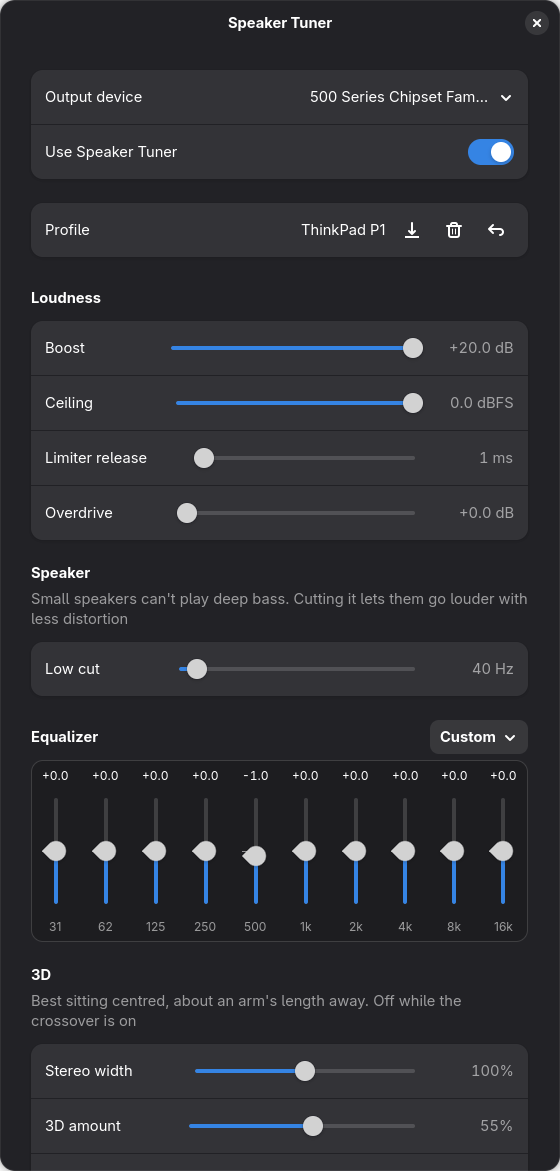
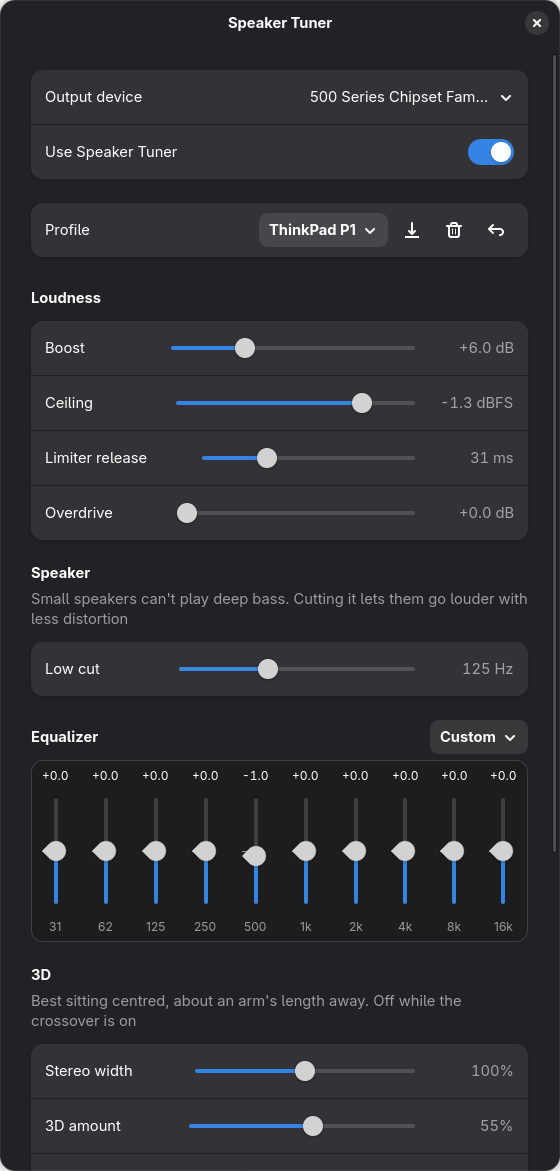
Profile dropdown with auto-save into the selected profile

diff --git a/speaker_tuner.py b/speaker_tuner.py
@@ -361,11 +361,13 @@ class Window(Adw.ApplicationWindow):
         self.default_row.connect("notify::active", self.on_default_toggled)
         g.add(self.default_row)
 
-        # Profiles: one row, actions as icon buttons
+        # Profiles: dropdown plus icon buttons on one row. Edits auto-save into the selected profile.
         g = Adw.PreferencesGroup()
         page.add(g)
-        self.profile_row = Adw.ComboRow(title="Profile")
-        self.profile_row.connect("notify::selected", self.on_profile_selected)
+        self.profile_row = Adw.ActionRow(title="Profile")
+        self.profile_dd = Gtk.DropDown(valign=Gtk.Align.CENTER)
+        self.profile_dd.connect("notify::selected", self.on_profile_selected)
+        self.profile_row.add_suffix(self.profile_dd)
         for icon, tip, cb in (("document-save-symbolic", "Save as…", self.on_save_profile),
                               ("user-trash-symbolic", "Delete profile", self.on_delete_profile),
                               ("edit-undo-symbolic", "Reset to defaults", self.on_reset)):
@@ -514,12 +516,13 @@ class Window(Adw.ApplicationWindow):
         was, self.building = self.building, True
         self.profiles = load_profiles()
         self.profile_names = sorted(self.profiles, key=str.casefold)
-        self.profile_row.set_model(Gtk.StringList.new(self.profile_names or ["No saved profiles"]))
-        self.profile_row.set_sensitive(bool(self.profile_names))
-        self.delete_btn.set_sensitive(bool(self.profile_names))
+        # Index 0 is "None": settings not tied to a profile.
+        self.profile_dd.set_model(Gtk.StringList.new(["None"] + self.profile_names))
         current = select if select is not None else self.s.get("profile")
-        self.profile_row.set_selected(self.profile_names.index(current) if current in self.profile_names
-                                      else Gtk.INVALID_LIST_POSITION)
+        if current not in self.profile_names:
+            self.s.pop("profile", None)
+        self.profile_dd.set_selected(self.profile_names.index(current) + 1 if current in self.profile_names else 0)
+        self.delete_btn.set_sensitive(current in self.profile_names)
         self.building = was
 
     def pick_initial_sink(self):
@@ -570,18 +573,25 @@ class Window(Adw.ApplicationWindow):
 
     # -- profiles
 
-    def on_profile_selected(self, row, _):
-        idx = row.get_selected()
-        if self.building or idx == Gtk.INVALID_LIST_POSITION or idx >= len(self.profile_names):
+    def on_profile_selected(self, dd, _):
+        idx = dd.get_selected()
+        if self.building or idx == Gtk.INVALID_LIST_POSITION:
             return
-        name = self.profile_names[idx]
+        if idx == 0:  # "None": keep the current sound, stop auto-saving into a profile
+            self.s.pop("profile", None)
+            self.delete_btn.set_sensitive(False)
+            self.schedule_apply()
+            return
+        name = self.profile_names[idx - 1]
         self.apply_values(self.profiles[name])
         self.s["profile"] = name
+        self.delete_btn.set_sensitive(True)
         self.toast(f"Loaded “{name}”")
 
     def on_save_profile(self, _row):
-        entry = Gtk.Entry(text=self.s.get("profile") or "", placeholder_text="Profile name", activates_default=True)
-        dlg = Adw.AlertDialog(heading="Save profile", body="Save the current settings under a name.")
+        entry = Gtk.Entry(placeholder_text="Profile name", activates_default=True)
+        dlg = Adw.AlertDialog(heading="Save as new profile",
+                              body="Changes you make afterwards are saved into it automatically.")
         dlg.set_extra_child(entry)
         dlg.add_response("cancel", "Cancel")
         dlg.add_response("save", "Save")
@@ -611,11 +621,10 @@ class Window(Adw.ApplicationWindow):
         dlg.present(self)
 
     def on_delete_profile(self, _row):
-        idx = self.profile_row.get_selected()
-        if idx == Gtk.INVALID_LIST_POSITION or idx >= len(self.profile_names):
+        name = self.s.get("profile")
+        if name not in self.profile_names:
             self.toast("Pick a profile to delete first")
             return
-        name = self.profile_names[idx]
         dlg = Adw.AlertDialog(heading=f"Delete “{name}”?", body="Your current settings stay as they are.")
         dlg.add_response("cancel", "Cancel")
         dlg.add_response("delete", "Delete")
@@ -666,6 +675,12 @@ class Window(Adw.ApplicationWindow):
         self.pending = 0
         try:
             save_settings(self.s)
+            name = self.s.get("profile")
+            if name and name in self.profiles:  # auto-save edits into the active profile
+                values = {k: v for k, v in self.s.items() if k in DEFAULTS and k not in DEVICE_KEYS}
+                if self.profiles[name] != values:
+                    self.profiles[name] = values
+                    save_profiles(self.profiles)
         except OSError as e:
             self.toast(f"Could not save settings: {e}")
         if self.node_id is not None and not self.banner.get_revealed():

diff --git a/README.md b/README.md
@@ -24,7 +24,7 @@ app to keep open, and changes apply live while music is playing.
   centred in front of closely spaced speakers, such as a laptop's.
 - **Virtual crossover**: mixes to mono and sends the lows to one speaker and
   the highs to the other (Linkwitz-Riley, 24 dB/oct), with per-speaker levels.
-- **Profiles**: save, name, load and delete settings. Reset to defaults any time.
+- **Profiles**: pick a profile from the dropdown, or save the current sound as a new named one. Changes save into the selected profile automatically. Delete or reset to defaults any time.
 
 ## Requirements
 
